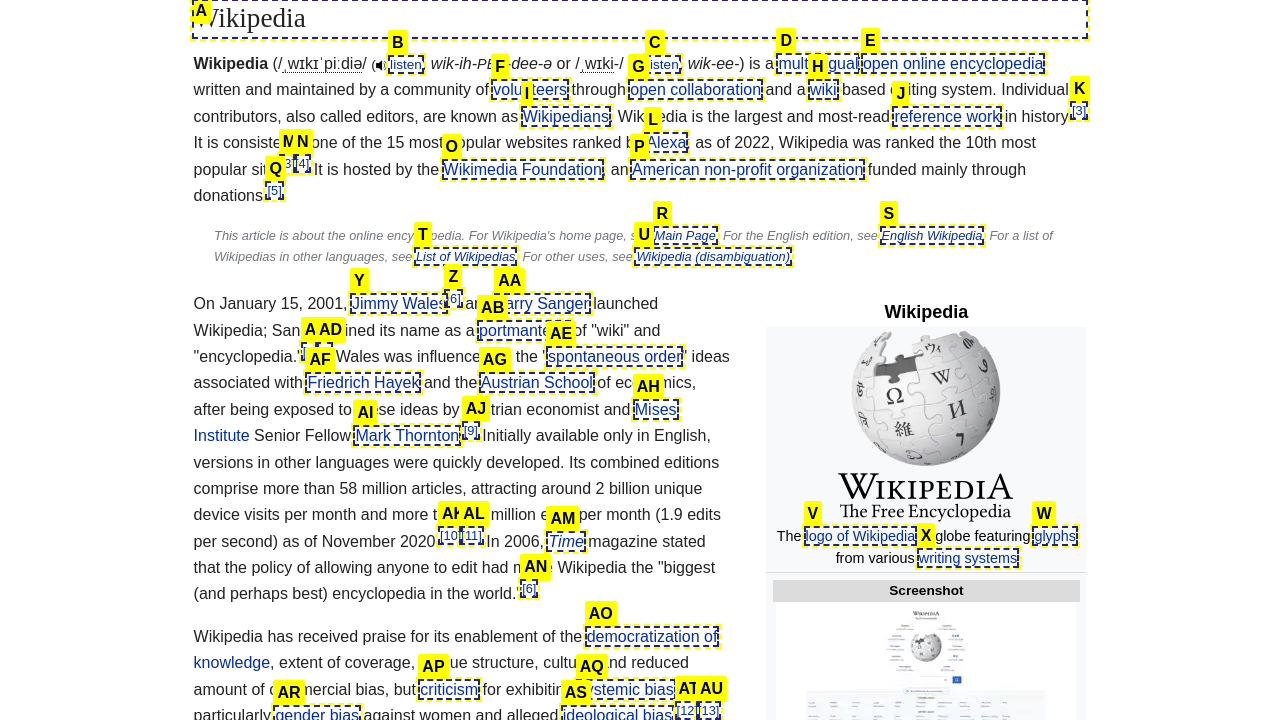
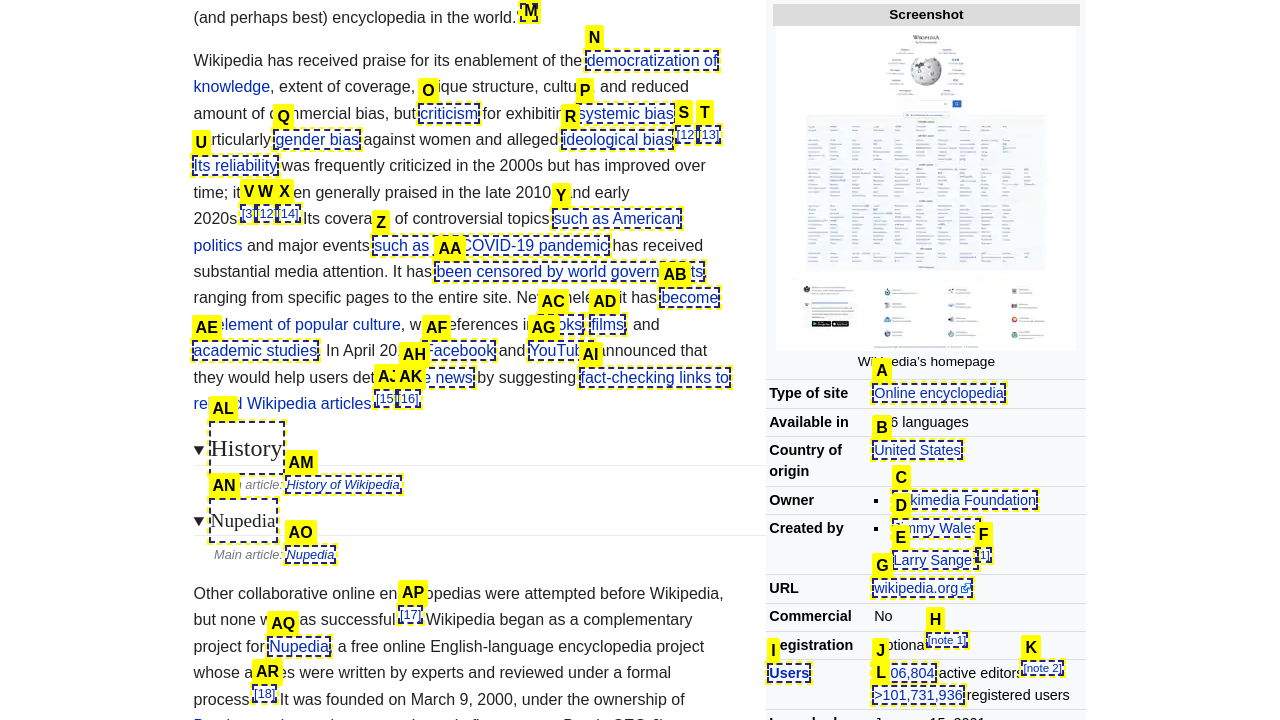
rag based implementation

Changed region(s): [[0.125, 0.0, 0.875, 1.0]]

diff --git a/mini_webarena/browser_env.py b/mini_webarena/browser_env.py
@@ -139,8 +139,23 @@ class ScriptBrowserEnv(Env[dict[str, Observation], Action]):
 
     @beartype
     def setup(self, config_file: Path | None = None) -> None:
-        self.context_manager = sync_playwright()
-        self.playwright = self.context_manager.start()
+        import asyncio
+        import traceback
+        if hasattr(asyncio, "get_running_loop"):
+            original_get_running_loop = asyncio.get_running_loop
+            def dummy_get_running_loop():
+                stack = traceback.extract_stack()
+                if any("playwright" in frame.filename and "__enter__" in frame.name for frame in stack):
+                    raise RuntimeError("Bypass Playwright check")
+                return original_get_running_loop()
+            asyncio.get_running_loop = dummy_get_running_loop
+
+        try:
+            self.context_manager = sync_playwright()
+            self.playwright = self.context_manager.start()
+        finally:
+            if hasattr(asyncio, "get_running_loop"):
+                asyncio.get_running_loop = original_get_running_loop
         self.browser = self.playwright.chromium.launch(
             headless=self.headless, slow_mo=self.slow_mo,
             args=["--no-sandbox", "--proxy-bypass-list=<-loopback>"]
@@ -294,9 +309,9 @@ class ScriptBrowserEnv(Env[dict[str, Observation], Action]):
             # 至少等待一个基本的时间
             time.sleep(1.0)
 
-    def _get_obs(self) -> dict[str, Observation]:
+    def _get_obs(self, context: str = "") -> dict[str, Observation]:
         obs = self.observation_handler.get_observation(
-            self.page, self.get_page_client(self.page)
+            self.page, self.get_page_client(self.page), context
         )
         return obs
 
@@ -310,6 +325,7 @@ class ScriptBrowserEnv(Env[dict[str, Observation], Action]):
             *,
             seed: int | None = None,
             options: dict[str, str] | None = None,
+            context: str = "",
     ) -> tuple[dict[str, Observation], dict[str, Any]]:
         """
         Reset the environment.
@@ -338,7 +354,7 @@ class ScriptBrowserEnv(Env[dict[str, Observation], Action]):
 
         images = self.modify_page()
 
-        observation = self._get_obs()
+        observation = self._get_obs(context=context)
         observation_metadata = self._get_obs_metadata()
         info = {
             "page": DetachedPage(self.page.url, ""),
@@ -355,6 +371,7 @@ class ScriptBrowserEnv(Env[dict[str, Observation], Action]):
             storage_state: str | None = None,
             start_url: str | None = None,
             geolocation: dict | None = None,
+            context: str = "",
     ) -> tuple[dict, dict]:
         """
         Reset the environment without using an external config file.
@@ -383,10 +400,25 @@ class ScriptBrowserEnv(Env[dict[str, Observation], Action]):
             signal.signal(signal.SIGCHLD, signal.SIG_DFL)
         except Exception as e:
             print(f"[TRACE-ENV] Could not reset SIGCHLD: {e}", flush=True)
-            
-        self.context_manager = sync_playwright()
-        print("[TRACE-ENV] Starting Playwright.", flush=True)
-        self.playwright = self.context_manager.start()
+
+        import asyncio
+        import traceback
+        if hasattr(asyncio, "get_running_loop"):
+            original_get_running_loop = asyncio.get_running_loop
+            def dummy_get_running_loop():
+                stack = traceback.extract_stack()
+                if any("playwright" in frame.filename and "__enter__" in frame.name for frame in stack):
+                    raise RuntimeError("Bypass Playwright check")
+                return original_get_running_loop()
+            asyncio.get_running_loop = dummy_get_running_loop
+
+        try:
+            self.context_manager = sync_playwright()
+            print("[TRACE-ENV] Starting Playwright.", flush=True)
+            self.playwright = self.context_manager.start()
+        finally:
+            if hasattr(asyncio, "get_running_loop"):
+                asyncio.get_running_loop = original_get_running_loop
 
         print("[TRACE-ENV] Launching browser.", flush=True)
         self.browser = self.playwright.chromium.launch(
@@ -444,7 +476,7 @@ class ScriptBrowserEnv(Env[dict[str, Observation], Action]):
 
         # print("[DEBUG] Modifying page for observation.")
         images = self.modify_page()
-        observation = self._get_obs()
+        observation = self._get_obs(context=context)
         observation_metadata = self._get_obs_metadata()
 
         info = {
@@ -466,7 +498,7 @@ class ScriptBrowserEnv(Env[dict[str, Observation], Action]):
             self.context_manager.__exit__()
 
     def step(
-            self, action: Action
+            self, action: Action, context: str = ""
     ) -> tuple[dict[str, Observation], float, bool, bool, dict[str, Any]]:
         if not self.reset_finished:
             raise RuntimeError("Call reset first before calling step.")
@@ -494,7 +526,7 @@ class ScriptBrowserEnv(Env[dict[str, Observation], Action]):
 
         images = self.modify_page()
 
-        observation = self._get_obs()
+        observation = self._get_obs(context=context)
         observation_metadata = self._get_obs_metadata()
 
         info = {

diff --git a/mini_webarena/browser_processors.py b/mini_webarena/browser_processors.py
@@ -846,6 +846,54 @@ class TextObervationProcessor(ObservationProcessor):
                 accessibility_tree
             )
             content = self.clean_accesibility_tree(content)
+
+            # --- ACTION-PRESERVING SEMANTIC PRUNING ---
+            lines = content.split('\n')
+            functional_nodes = []
+            semantic_nodes = []
+            
+            keywords = ['textbox', 'button', 'input', 'checkbox', 'combobox']
+            
+            for idx, line in enumerate(lines):
+                if not line.strip():
+                    continue
+                line_lower = line.lower()
+                is_functional = any(kw in line_lower for kw in keywords)
+                if is_functional:
+                    functional_nodes.append((idx, line))
+                else:
+                    semantic_nodes.append((idx, line))
+            
+            if semantic_nodes and context:
+                from sentence_transformers import SentenceTransformer
+                import numpy as np
+                import torch
+                
+                if not hasattr(self.__class__, 'st_model'):
+                    device = "cuda" if torch.cuda.is_available() else "cpu"
+                    self.__class__.st_model = SentenceTransformer('all-MiniLM-L6-v2', device=device)
+                    
+                query_emb = self.__class__.st_model.encode([context])[0]
+                sem_texts = [node[1] for node in semantic_nodes]
+                sem_embs = self.__class__.st_model.encode(sem_texts)
+                
+                sem_embs_norm = np.linalg.norm(sem_embs, axis=1)
+                query_emb_norm = np.linalg.norm(query_emb)
+                sims = np.dot(sem_embs, query_emb) / (sem_embs_norm * query_emb_norm + 1e-10)
+                
+                K = min(40, len(semantic_nodes))
+                top_indices = np.argsort(sims)[-K:]
+                
+                filtered_semantic_nodes = [semantic_nodes[i] for i in top_indices]
+            else:
+                filtered_semantic_nodes = semantic_nodes[:40] if semantic_nodes else []
+                
+            combined_nodes = functional_nodes + filtered_semantic_nodes
+            combined_nodes.sort(key=lambda x: x[0])
+            
+            content = "\n".join([node[1] for node in combined_nodes])
+            # ----------------------------------------
+
             self.obs_nodes_info = obs_nodes_info
             self.meta_data["obs_nodes_info"] = obs_nodes_info
 

diff --git a/mini_webarena/env_worker.py b/mini_webarena/env_worker.py
@@ -66,7 +66,8 @@ class WikiQAEnv(object):
             self.url = url
             
         print(f"[TRACE] Now calling reset_without_config(start_url={self.url})...", flush=True)
-        obs, _ = self.env.reset_without_config(start_url=self.url)
+        current_context = self.question
+        obs, _ = self.env.reset_without_config(start_url=self.url, context=current_context)
         print(f"[TRACE] reset_without_config completed.", flush=True)
         self.history = [{"role": "system"}, {"role": "user", "question": self.question, "url": self.url,
                                              "observation": obs[self.obs_modality], "previous_action": None}]
@@ -114,10 +115,14 @@ class WikiQAEnv(object):
             action_extracted = create_none_action()
             # 确保页面状态稳定后再获取观察结果
             self.env._wait_for_page_ready()
-            obs = self.env._get_obs()
+            agent_memory = " ".join([h.get("pred", "") for h in self.history if h["role"] == "assistant" and h.get("pred")])
+            current_context = self.question + " " + agent_memory
+            obs = self.env._get_obs(context=current_context)
         else:
             try:
-                obs, _, terminated, _, _ = self.env.step(action_extracted)
+                agent_memory = " ".join([h.get("pred", "") for h in self.history if h["role"] == "assistant" and h.get("pred")])
+                current_context = self.question + " " + agent_memory
+                obs, _, terminated, _, _ = self.env.step(action_extracted, context=current_context)
                 # step方法内部已经调用了_wait_for_page_ready，这里不需要重复调用
             except Exception as e:
                 print("######################### Error in run step, action invalid")
@@ -125,7 +130,9 @@ class WikiQAEnv(object):
                 action_extracted = create_none_action()
                 # 确保页面状态稳定后再获取观察结果
                 self.env._wait_for_page_ready()
-                obs = self.env._get_obs()
+                agent_memory = " ".join([h.get("pred", "") for h in self.history if h["role"] == "assistant" and h.get("pred")])
+                current_context = self.question + " " + agent_memory
+                obs = self.env._get_obs(context=current_context)
                 validity = False
 
         self.history.append(
